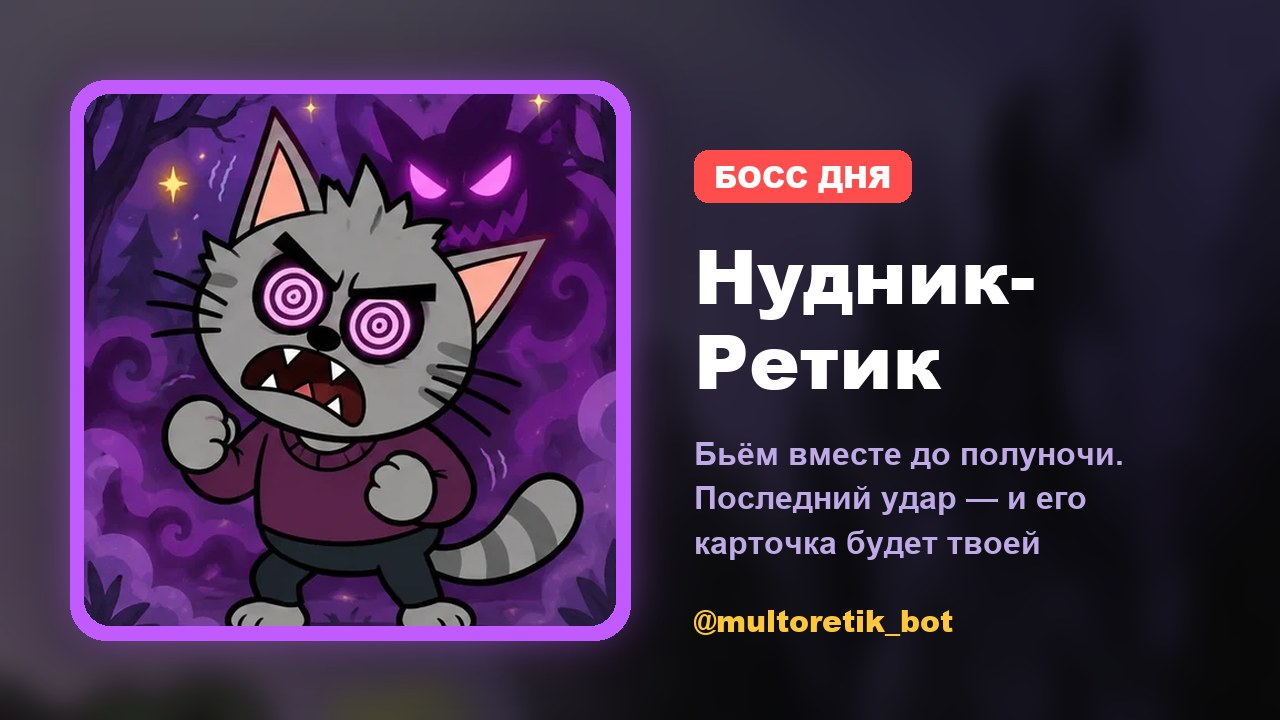
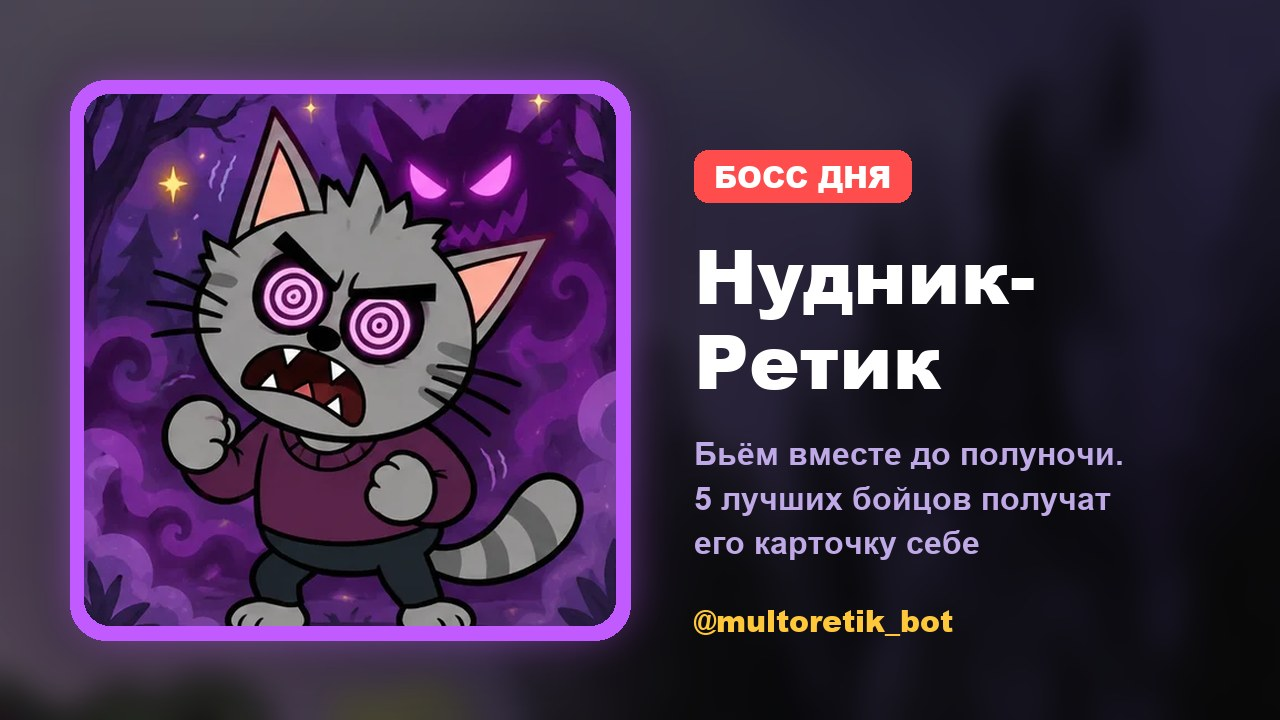
Босс: 25 000 здоровья, карточка — 5 лучшим по ударам

Changed region(s): [[0.5312, 0.6722, 0.875, 0.7944]]

diff --git a/supabase/functions/bot/index.ts b/supabase/functions/bot/index.ts
@@ -229,6 +229,8 @@ async function subs(u: TgUser, list: unknown, notify: unknown) {
 
 // ---------------------------------------------------------------- интерактивы (07.11)
 const BOSS_ENERGY = 1_000_000; // без дневного лимита ударов (07.11, пользователь: «можно сколько угодно кликать»); от автокликера — ≤15 ударов/с в boss_hit
+const BOSS_HP = 25000;         // здоровье босса дня (пользователь 07.11)
+const BOSS_TOP = 5;            // карточку босса получают 5 лучших по числу ударов
 const BOSS_MIN_HITS = 30;      // столько ударов — и участник получает награду, если босса победили
 const QUIZ_COIN = 5, QUIZ_ALL = 10;
 const GAME_WINS = 3, GAME_COIN = 5;   // «Найди пару»: монеты за первые 3 победы дня
@@ -271,9 +273,7 @@ async function bossToday() {
     const pool = (await cards()).filter((c) => c.rarity === "epic" || c.rarity === "legend");
     const seed = [...day].reduce((s, ch) => (s * 31 + ch.charCodeAt(0)) >>> 0, 7);
     const card = pool[seed % pool.length];
-    const since = new Date(Date.now() - 3 * 86400e3).toISOString();
-    const { count } = await db.from("users").select("tg_id", { count: "exact", head: true }).gte("seen_at", since);
-    const hp = Math.max(3000, Math.round(((count || 0) * 250) / 100) * 100);   // ~ по 250 ударов на каждого, кто заходил за 3 дня
+    const hp = BOSS_HP;
     await db.from("bosses").insert({ day, card_id: card?.id, hp, max_hp: hp });
     b = (await db.from("bosses").select("*").eq("day", day).single()).data;
   }
@@ -312,11 +312,13 @@ async function bossClaim(u: TgUser) {
   const { data: ok } = await db.from("boss_hits").update({ claimed: true }).eq("day", b.day).eq("tg_id", u.id)
     .eq("claimed", false).gte("hits", BOSS_MIN_HITS).select("tg_id");
   if (!ok?.length) return json({ error: `Награда — тем, кто нанёс от ${BOSS_MIN_HITS} ударов` }, 400);
-  // 07.11 пользователь: «если ты побьёшь злодея — только тебе карточка, а не всем»: карточка босса — за последний удар,
+  // 07.11 пользователь: «все вместе должны бить, 5 лучших получат карточку»: карточка босса — топ-5 по ударам,
   // остальным участникам (от BOSS_MIN_HITS ударов) — случайная редкая или лучше и монеты
   const bc = (await cards()).find((c) => c.id === b.card_id);
-  const list = b.last_hit_by === u.id && bc ? [bc] : await roll(1, true);
-  return json({ ok: true, cards: await give(u.id, list, 15), coins: 15, killer: b.last_hit_by === u.id });
+  const { data: top } = await db.from("boss_hits").select("tg_id").eq("day", b.day).order("hits", { ascending: false }).limit(BOSS_TOP);
+  const best = (top || []).some((t) => t.tg_id === u.id);
+  const list = best && bc ? [bc] : await roll(1, true);
+  return json({ ok: true, cards: await give(u.id, list, 15), coins: 15, best, killer: b.last_hit_by === u.id });
 }
 
 async function spin(u: TgUser) {
@@ -399,7 +401,7 @@ async function announceBoss() {
   const card = (await cards()).find((c) => c.id === b.card_id);
   if (!card) return 0;
   const { data: users } = await db.from("users").select("tg_id").eq("notify", true).eq("blocked", false).limit(5000);
-  const text = `⚔ Новый босс дня — «${card.name}»!\n\nБьём его все вместе до полуночи. Кто нанесёт последний удар — заберёт его карточку себе! Остальным, кто нанёс от ${BOSS_MIN_HITS} ударов, — редкая карточка и монеты.\n\nЗаходи и жми по боссу 👇`;
+  const text = `⚔ Новый босс дня — «${card.name}»!\n\nБьём его все вместе до полуночи. 5 лучших бойцов по числу ударов заберут его карточку себе! Остальным, кто нанёс от ${BOSS_MIN_HITS} ударов, — редкая карточка и монеты.\n\nЗаходи и жми по боссу 👇`;
   const reply_markup = { inline_keyboard: [[{ text: "⚔ Бить босса", web_app: { url: `${APP}?tab=games` } }]] };
   let sent = 0;
   for (const [i, us] of (users || []).entries()) {

diff --git a/web/index.html b/web/index.html
@@ -283,7 +283,7 @@ nav button.on{background:var(--wood-dark);color:var(--gold)}
 .wbox{width:100%;max-width:400px;text-align:center}
 .wbox h3{font-size:20px}
 .btn.ghost{background:transparent;border:2px solid rgba(201,168,255,.35);border-radius:14px;color:var(--muted);-webkit-text-stroke:0;font-size:16px;padding:11px;margin-top:10px;box-shadow:none}
-.bossp .btop div:nth-child(n+4){display:none}
+.bossp .btop div:nth-child(n+6){display:none}
 @media (prefers-reduced-motion:reduce){*{animation:none!important;transition:none!important}}
 </style>
 </head>
@@ -641,13 +641,13 @@ async function loadBoss(quiet) {
 function renderBoss() {
   const b = B.st;
   if (!b || !b.card) { $("#boss").innerHTML = `<div class="muted">Босс скоро появится</div>`; return; }
-  const claim = b.canClaim ? `<button class="btn gold" id="bclaim">${icon("i-gift")}${b.killer ? "Забрать карточку босса" : "Забрать награду"}</button>`
+  const claim = b.canClaim ? `<button class="btn gold" id="bclaim">${icon("i-gift")}${(b.top || []).some((t) => t.me) ? "Забрать карточку босса" : "Забрать награду"}</button>`
     : b.defeated && b.claimed ? `<p class="muted" style="margin-top:12px">Награда у тебя. Завтра — новый босс</p>`
     : b.defeated ? `<p class="muted" style="margin-top:12px">Победили без тебя — завтра новый босс</p>` : "";
   $("#boss").innerHTML = `<div class="bh"><span class="badge2">${icon("i-sword", 18)}Босс дня</span><span class="muted" id="bleft">${b.defeated ? "повержен" : "сбежит через " + mskLeft()}</span></div>
     <button class="bossart ${b.defeated ? "dead" : ""}" id="bossart" aria-label="Ударить босса">${cardHtml(b.card, 0, true)}${b.defeated ? `<span class="deadtag">Повержен!</span>` : ""}</button>
     <div class="hp"><i id="hpbar"></i><span id="hptext"></span></div>
-    <div class="bmeta"><span>твои удары: <b id="bmy">0</b></span><span>последний удар — карточка босса</span></div>
+    <div class="bmeta"><span>твои удары: <b id="bmy">0</b></span><span>топ-5 по ударам — карточка босса</span></div>
     ${claim}<div class="btop" id="btop"></div>`;
   updBoss();
   const art = $("#bossart");
@@ -658,7 +658,7 @@ function renderBoss() {
     const r = await call("boss_claim");
     if (r.error) { toast(r.error); $("#bclaim").disabled = false; return; }
     B.st.canClaim = false; B.st.claimed = true; renderBoss();
-    drop(r.killer ? "Последний удар — твой!" : "Босс повержен!", `+${r.coins} монет · ${r.killer ? "карточка босса твоя" : "награда за командную победу"}`, r.cards);
+    drop(r.best ? "Ты в пятёрке лучших!" : "Босс повержен!", `+${r.coins} монет · ${r.best ? "карточка босса твоя" : "награда за командную победу"}`, r.cards);
   };
 }
 function updBoss() {
@@ -691,7 +691,7 @@ async function flushHits() {
   if (r.error) { toast(r.error); return; }
   const b = B.st;
   b.hp = Math.max(0, r.hp - B.pending); b.my = r.my + B.pending;
-  if (r.hp <= 0) { B.pending = 0; if (r.killer) toast("Ты нанёс последний удар!"); return loadBoss(); }
+  if (r.hp <= 0) { B.pending = 0; return loadBoss(); }
   updBoss();
   if (B.pending && !B.timer) B.timer = setTimeout(flushHits, 1000);
 }

diff --git a/tools/boss_poster.py b/tools/boss_poster.py
@@ -55,7 +55,7 @@ def poster(card, out):
         d.text((tx, y), ln, font=fnt, fill='white', anchor='lt')
         y += int(fnt.size * 1.12)
     y += 22
-    for ln in ['Бьём вместе до полуночи.', 'Последний удар — и его', 'карточка будет твоей']:
+    for ln in ['Бьём вместе до полуночи.', '5 лучших бойцов получат', 'его карточку себе']:
         d.text((tx, y), ln, font=font(FR, 32), fill=MUTED, anchor='lt')
         y += 44
     d.text((tx, H - 110), '@multoretik_bot', font=font(FB, 30), fill=RARE['legend'], anchor='lt')
